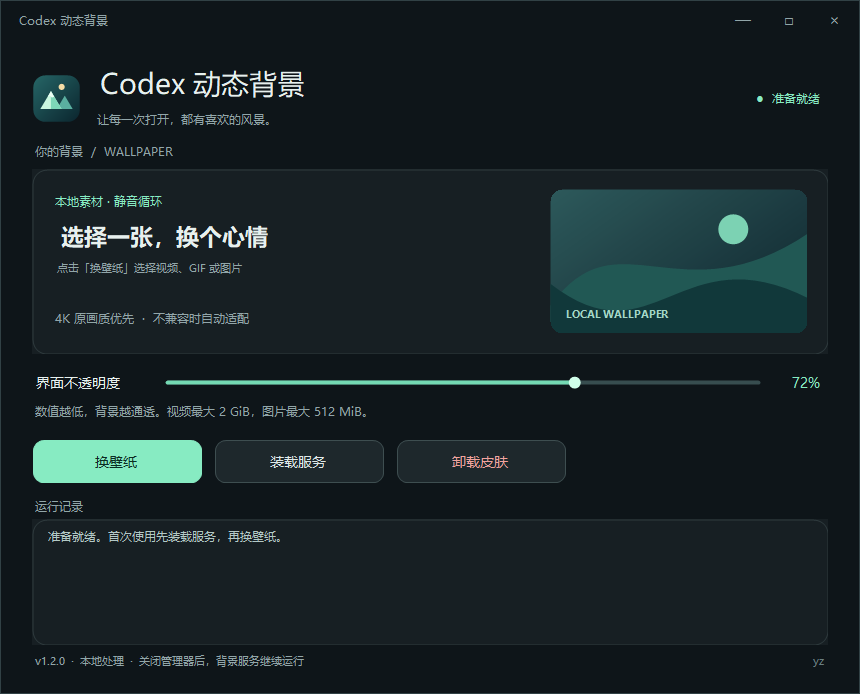
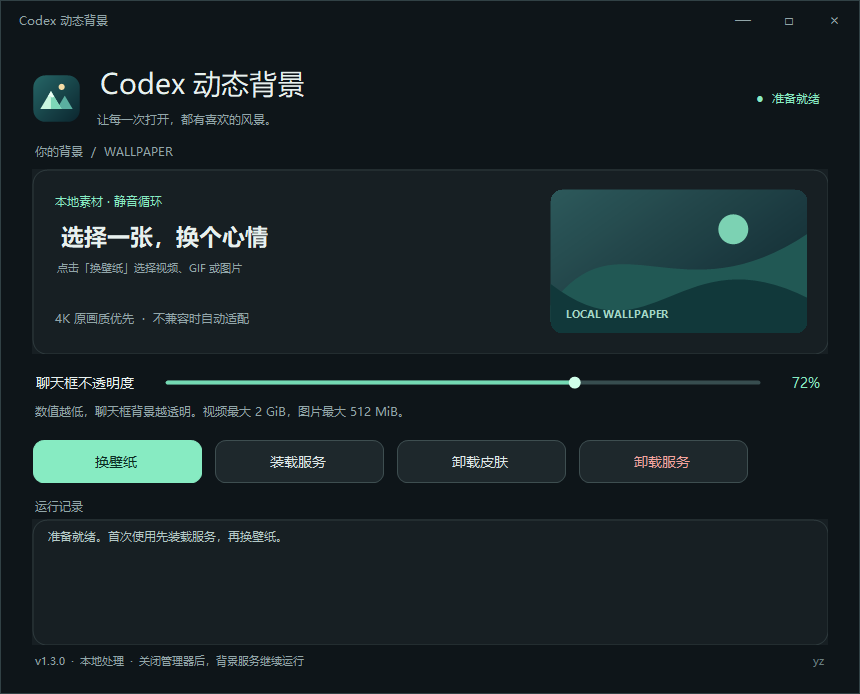
build(release): ship verified single EXE installer for v1.3.0

Changed region(s): [[0.0302, 0.5447, 0.4837, 0.6052], [0.7256, 0.6354, 0.8163, 0.696], [0.514, 0.6354, 0.5744, 0.696]]

diff --git a/source/Setup.cs b/source/Setup.cs
@@ -1,0 +1,103 @@
+using System;
+using System.IO;
+using System.IO.Compression;
+using System.Drawing;
+using System.Diagnostics;
+using System.Collections;
+using System.Collections.Generic;
+using System.Security.Cryptography;
+using System.Reflection;
+using System.Threading;
+using System.Text;
+using System.Web.Script.Serialization;
+using System.Windows.Forms;
+
+internal sealed class Setup : Form {
+    readonly Label status=new Label();readonly TextBox log=new TextBox();readonly ProgressBar progress=new ProgressBar();readonly ActionButton install=new ActionButton();bool busy,completed;string testReport;int resultCode;
+    Setup(){
+        DoubleBuffered=true;Text="安装 Codex 动态背景 · "+SetupPayload.Version;BackColor=Color.FromArgb(14,21,25);ForeColor=Color.FromArgb(231,240,238);Font=new Font("Microsoft YaHei UI",10);ClientSize=new Size(660,478);FormBorderStyle=FormBorderStyle.None;Padding=new Padding(1);MinimumSize=MaximumSize=Size;MaximizeBox=false;StartPosition=FormStartPosition.CenterScreen;
+        using(var bitmap=IconAssets.Create(64)){IntPtr handle=bitmap.GetHicon();try{Icon=(Icon)Icon.FromHandle(handle).Clone();}finally{DestroyIcon(handle);}}
+        var shell=new BufferedTable{Dock=DockStyle.Fill,ColumnCount=1,RowCount=2,Margin=Padding.Empty};shell.RowStyles.Add(new RowStyle(SizeType.Absolute,38));shell.RowStyles.Add(new RowStyle(SizeType.Percent,100));Controls.Add(shell);
+        var bar=new Panel{Dock=DockStyle.Fill,Margin=Padding.Empty};var close=new Button{Text="×",Dock=DockStyle.Right,Width=46,FlatStyle=FlatStyle.Flat,ForeColor=ForeColor,Font=new Font("Segoe UI",13)};close.FlatAppearance.BorderSize=0;close.Click+=delegate{Close();};bar.Controls.Add(close);
+        var title=new Label{Text="Codex 动态背景 · 安装程序",Dock=DockStyle.Fill,Padding=new Padding(14,0,0,0),TextAlign=ContentAlignment.MiddleLeft,ForeColor=Color.FromArgb(151,176,175)};title.MouseDown+=delegate(object sender,MouseEventArgs e){if(e.Button==MouseButtons.Left){ReleaseCapture();SendMessage(Handle,0xA1,(IntPtr)2,IntPtr.Zero);}};bar.Controls.Add(title);close.BringToFront();shell.Controls.Add(bar,0,0);
+        var layout=new BufferedTable{Dock=DockStyle.Fill,Padding=new Padding(28,18,28,28),ColumnCount=1,RowCount=6,Margin=Padding.Empty};shell.Controls.Add(layout,0,1);
+        foreach(int height in new[]{54,58,32})layout.RowStyles.Add(new RowStyle(SizeType.Absolute,height));layout.RowStyles.Add(new RowStyle(SizeType.Percent,100));layout.RowStyles.Add(new RowStyle(SizeType.Absolute,28));layout.RowStyles.Add(new RowStyle(SizeType.Absolute,52));
+        layout.Controls.Add(new Label{Text="安装 Codex 动态背景",Font=new Font(Font.FontFamily,21,FontStyle.Bold),Dock=DockStyle.Fill},0,0);
+        layout.Controls.Add(new Label{Text="自动检测旧版本并迁移更新。\r\n保留壁纸和登录资料，完成后自动打开管理器。",ForeColor=Color.FromArgb(151,176,175),Dock=DockStyle.Fill},0,1);
+        status.Text="准备安装 · v"+SetupPayload.Version;status.Dock=DockStyle.Fill;status.ForeColor=Color.FromArgb(135,235,194);layout.Controls.Add(status,0,2);
+        log.Multiline=true;log.ReadOnly=true;log.BorderStyle=BorderStyle.None;log.BackColor=Color.FromArgb(23,31,35);log.ForeColor=Color.FromArgb(176,204,197);log.Dock=DockStyle.Fill;log.ScrollBars=ScrollBars.Vertical;layout.Controls.Add(log,0,3);
+        progress.Dock=DockStyle.Fill;progress.Height=5;progress.Margin=new Padding(0,12,0,10);layout.Controls.Add(progress,0,4);
+        install.Text="安装 / 更新";install.Primary=true;install.Dock=DockStyle.Right;install.Click+=delegate{if(completed){Close();return;}if(!busy)BeginInstall();};layout.Controls.Add(install,0,5);
+        FormClosing+=delegate(object sender,FormClosingEventArgs e){if(busy){e.Cancel=true;MessageBox.Show(this,"安装正在进行，请等待完成。",Text);}};
+    }
+    [System.Runtime.InteropServices.DllImport("user32.dll")]static extern bool DestroyIcon(IntPtr icon);
+    [System.Runtime.InteropServices.DllImport("user32.dll")]static extern bool ReleaseCapture();
+    [System.Runtime.InteropServices.DllImport("user32.dll")]static extern IntPtr SendMessage(IntPtr window,int message,IntPtr w,IntPtr l);
+    protected override CreateParams CreateParams {get{var value=base.CreateParams;value.ExStyle|=0x02000000;return value;}}
+    void Update(string message,int percent){if(IsDisposed)return;BeginInvoke((MethodInvoker)delegate{status.Text=message;progress.Value=Math.Max(0,Math.Min(100,percent));});}
+    void Append(string text){if(IsDisposed)return;BeginInvoke((MethodInvoker)delegate{log.AppendText(text+Environment.NewLine);});}
+    static string Hash(Stream stream){using(var sha=SHA256.Create())return BitConverter.ToString(sha.ComputeHash(stream)).Replace("-","");}
+    static string Inside(string directory,string relative){
+        if(String.IsNullOrEmpty(relative)||Path.IsPathRooted(relative)||relative.IndexOf(':')>=0)throw new Exception("安装包路径无效。");
+        string full=Path.GetFullPath(Path.Combine(directory,relative.Replace('/',Path.DirectorySeparatorChar)));
+        if(!full.StartsWith(Path.GetFullPath(directory).TrimEnd(Path.DirectorySeparatorChar)+Path.DirectorySeparatorChar,StringComparison.OrdinalIgnoreCase))throw new Exception("安装包路径越界。");return full;
+    }
+    static void ExtractAndVerify(string stage,Action<string,int> report){
+        using(var payload=Assembly.GetExecutingAssembly().GetManifestResourceStream("Codex.Payload.zip")){
+            if(payload==null||!Hash(payload).Equals(SetupPayload.Sha256,StringComparison.OrdinalIgnoreCase))throw new Exception("安装包校验失败，请从项目发行页重新下载。");
+            payload.Position=0;using(var zip=new ZipArchive(payload,ZipArchiveMode.Read)){
+                if(zip.Entries.Count>1000)throw new Exception("安装包文件数量异常。");long total=0;int count=0;var seen=new HashSet<string>(StringComparer.OrdinalIgnoreCase);
+                foreach(var entry in zip.Entries){
+                    string file=Inside(stage,entry.FullName);if(!seen.Add(file))throw new Exception("安装包包含重复路径。");
+                    if(entry.FullName.EndsWith("/")){Directory.CreateDirectory(file);continue;}
+                    total+=entry.Length;if(entry.Length>200L*1024*1024||total>500L*1024*1024)throw new Exception("安装包大小异常。");
+                    Directory.CreateDirectory(Path.GetDirectoryName(file));using(var source=entry.Open())using(var target=File.Create(file))source.CopyTo(target);report("正在准备安装文件…",++count*25/zip.Entries.Count);
+                }
+            }
+        }
+        var manifest=new JavaScriptSerializer().Deserialize<Dictionary<string,object>>(File.ReadAllText(Path.Combine(stage,"manifest.json"),Encoding.UTF8));
+        if(Convert.ToString(manifest["version"])!=SetupPayload.Version)throw new Exception("安装包版本不一致。");
+        foreach(var item in (IEnumerable)manifest["files"]){var entry=(Dictionary<string,object>)item;string file=Inside(stage,Convert.ToString(entry["path"]));if(new FileInfo(file).Length!=Convert.ToInt64(entry["bytes"]))throw new Exception("安装文件长度校验失败。");using(var stream=File.OpenRead(file))if(!Hash(stream).Equals(Convert.ToString(entry["sha256"]),StringComparison.OrdinalIgnoreCase))throw new Exception("安装文件校验失败。");}
+    }
+    void RunStep(string stage,string action){
+        string ps=Path.Combine(Environment.GetFolderPath(Environment.SpecialFolder.System),@"WindowsPowerShell\v1.0\powershell.exe");
+        string args="-NoLogo -NoProfile -NonInteractive -WindowStyle Hidden -ExecutionPolicy Bypass -File \""+Path.Combine(stage,"control.ps1")+"\" -Action "+action;
+        var info=new ProcessStartInfo(ps,args){UseShellExecute=false,CreateNoWindow=true,WorkingDirectory=stage,RedirectStandardOutput=true,RedirectStandardError=true,StandardOutputEncoding=Encoding.UTF8,StandardErrorEncoding=Encoding.UTF8};
+        using(var process=Process.Start(info)){
+            var errors=new StringBuilder();process.OutputDataReceived+=delegate(object sender,DataReceivedEventArgs e){if(e.Data!=null)Append(e.Data);};process.ErrorDataReceived+=delegate(object sender,DataReceivedEventArgs e){if(e.Data!=null)lock(errors)errors.AppendLine(e.Data);};process.BeginOutputReadLine();process.BeginErrorReadLine();if(!process.WaitForExit(300000)){process.Kill();throw new Exception("安装步骤超时，请重试。");}process.WaitForExit();if(process.ExitCode!=0)lock(errors)throw new Exception(errors.Length>0?errors.ToString().Trim():"安装操作未完成，请查看日志。");
+        }
+    }
+    void BeginInstall(){
+        busy=true;install.Enabled=false;ThreadPool.QueueUserWorkItem(delegate{
+            string stage=Path.Combine(Path.GetTempPath(),"CodexBackgroundSetup-"+Guid.NewGuid().ToString("N"));bool preparing=false,success=false;string failure=null;
+            try{
+                Directory.CreateDirectory(stage);ExtractAndVerify(stage,Update);Update("正在检查 Codex 和运行环境…",30);RunStep(stage,"Check");
+                preparing=true;Update("正在检测并迁移旧版本…",45);RunStep(stage,"PrepareUpgrade");Update("正在安装并启用背景服务…",65);RunStep(stage,"Install");
+                string app=Path.Combine(Environment.GetFolderPath(Environment.SpecialFolder.LocalApplicationData),@"Programs\CodexLiveBackground\CodexLiveBackground.exe");
+                if(testReport==null)Process.Start(new ProcessStartInfo(app){UseShellExecute=true,WorkingDirectory=Path.GetDirectoryName(app)});success=true;Update("安装完成，背景服务已启用。",100);
+            }catch(Exception error){
+                if(preparing)try{Append("正在恢复旧安装…");RunStep(stage,"RollbackUpgrade");}catch(Exception rollback){Append("恢复信息："+rollback.Message);}
+                failure=error.Message;Append(error.Message);Update("安装未完成，可重试；个人资料保留。",0);
+            }finally{
+                // The exact temporary directory was created above; never use user-supplied cleanup paths.
+                string prefix=Path.GetFullPath(Path.GetTempPath()).TrimEnd(Path.DirectorySeparatorChar)+Path.DirectorySeparatorChar+"CodexBackgroundSetup-";
+                if(stage.StartsWith(prefix,StringComparison.OrdinalIgnoreCase)&&Directory.Exists(stage))try{Directory.Delete(stage,true);}catch{}
+            }
+            BeginInvoke((MethodInvoker)delegate{busy=false;completed=success;install.Text=success?"完成":"重试安装";install.Enabled=true;if(testReport!=null){resultCode=success?0:1;File.WriteAllText(testReport,new JavaScriptSerializer().Serialize(new{pass=success,error=failure,version=SetupPayload.Version,log=log.Text}));Close();}});
+        });
+    }
+    [STAThread]static int Main(string[] args){Application.EnableVisualStyles();Application.SetCompatibleTextRenderingDefault(false);
+        bool test=args.Length==2&&args[0].StartsWith("--");bool owns=false;using(var mutex=new Mutex(false,"Local\\CodexLiveBackground.Setup."+System.Security.Principal.WindowsIdentity.GetCurrent().User.Value)){
+        try{try{owns=mutex.WaitOne(0);}catch(AbandonedMutexException){owns=true;}if(!owns){if(!test)MessageBox.Show("安装程序已在运行，请返回原窗口。","Codex 动态背景");return 1;}
+        if(args.Length==2&&args[0]=="--verify-only"){
+            string stage=Path.Combine(Path.GetTempPath(),"CodexBackgroundSetup-"+Guid.NewGuid().ToString("N"));Directory.CreateDirectory(stage);
+            try{ExtractAndVerify(stage,delegate{});File.WriteAllText(args[1],"{\"pass\":true,\"payloadVerified\":true}");return 0;}finally{Directory.Delete(stage,true);}
+        }
+        using(var form=new Setup()){
+            if(args.Length==2&&args[0]=="--smoke-test"){form.Show();Application.DoEvents();using(var bitmap=new Bitmap(form.Width,form.Height)){form.DrawToBitmap(bitmap,new Rectangle(0,0,form.Width,form.Height));bitmap.Save(args[1]);}return 0;}
+            if(args.Length==2&&args[0]=="--install-test"){form.testReport=args[1];form.Shown+=delegate{form.BeginInstall();};}
+            Application.Run(form);return form.resultCode;
+        }}catch(Exception error){if(test)File.WriteAllText(args[1],new JavaScriptSerializer().Serialize(new{pass=false,error=error.ToString()}));else MessageBox.Show(error.Message,"Codex 动态背景");return 1;}
+        finally{if(owns)mutex.ReleaseMutex();}
+    }}
+}

diff --git a/docs/plans/2026-10-24-service-uninstaller.md b/docs/plans/2026-10-24-service-uninstaller.md
@@ -1,0 +1,21 @@
+# Complete Service Uninstaller Implementation Plan
+
+**Goal:** Ship v1.3.0 with complete service removal, reliable startup recovery, automatic legacy migration, animated previews and a single EXE installer.
+
+**Architecture:** Reuse native Windows Forms and verified service/process identities. Pause live styling, unregister only this application's startup entries and package hook, wait for its guard/monitors, stop the verified injector, then remove the owned startup directory and session record. Preserve wallpaper, profiles, video tools and the manager.
+
+**Tech Stack:** Windows PowerShell 5.1, .NET Framework WinForms, PackageDebugSettings COM API.
+
+---
+
+1. Update source/skin-removal.ps1 so skin removal only pauses and removes current styling; test that startup entries, files and injector state remain.
+2. Add source/service-removal.ps1 with ownership checks, cooperative service shutdown, stale-hook repair, exact process verification, bounded paths and junction rejection before recursive cleanup. Failed cleanup must report partial completion and be retryable.
+3. Add tests/service-removal.ps1 using isolated directories and mocked Windows integration. Cover normal/repeated removals, foreign hooks, missing files, blocked cleanup, running monitor and reparse-point boundaries.
+4. Add a fourth manager action with an explicit description and confirmation. Replace the native TrackBar with a buffered control to eliminate redraw trails; verify pointer, keyboard and pixel restoration. Buffer all layout containers and repaint resized surfaces. Bound status and worker waits, allow immediate window dismissal during work, and test close/timeout paths. Correct the opacity wording.
+5. Generate short local GIF previews using the pinned FFmpeg runtime, animate them in the manager, cache and restore them. Apply fixed dark appearance to live wallpaper and Codex preferences.
+6. Add a login Startup-folder fallback and ensure the guard runs on Codex package activation. Keep service helpers hidden and independent of the manager window.
+7. Detect canonical and legacy installs, close only old managers, stop only verified background components, checkpoint and archive old program files, preserve user data, and support rollback.
+8. Build an offline single EXE installer using .NET and an embedded, SHA-256-verified package. The customer never needs to unzip it. Validate extraction boundaries and all file hashes before migration.
+9. Update documentation and build v1.3.0, verify package/installer and source correspondence, upgrade the local manager and publish main/develop, feature branch, change tags and release.
+
+The existing service stays running on this computer during development. Only isolated test installations are uninstalled automatically.

diff --git a/CONTRIBUTING.md b/CONTRIBUTING.md
@@ -4,6 +4,10 @@
 
 编译后的管理器支持 `--ui-test <report.json>` 验证窗口按钮、缩放和不透明度反馈；`--smoke-test <image.png> [width height]` 生成无个人素材的界面截图。这些模式不会装载或卸载真实背景服务。
 
+v1.3.0 新增 `tests/service-removal.ps1`、`tests/upgrade.ps1`、`tests/dark-appearance.ps1`，均在独立测试目录中执行，Windows 注册与进程操作使用测试替身。`node tests/media-preview.mjs` 使用 `DREAM_TEST_FFMPEG` 生成测试图案，验证循环预览、缓存修复、帧数限制与源文件保留。
+
+管理器 `--ui-test` 还验证 80 次尺寸变化与 250 次滑杆拖动；`--lifecycle-test <report.json>` 验证操作中关闭、状态取消和超时；`--preview-test <gif> <report.json>` 验证实际动画帧变化。安装器 `--verify-only <report.json>` 只验证内置包，`--smoke-test <image.png>` 生成截图。**`--install-test <report.json>` 会实际升级本机服务和程序**，仅在明确允许升级的测试电脑上运行，结果写入报告。
+
 ## 分支
 
 - `main` 保存稳定版本。
@@ -35,7 +39,7 @@ change/0002-offline-runtime-docs
 ## 修改约束
 
 - 不强制关闭、重启或结束 Codex 进程来完成背景操作。
-- 保留「装载服务」和「换壁纸」两个按钮，产品名为「Codex 动态背景」。`yz` 只在管理器右下角以小字显示。
+- 保留「装载服务」「换壁纸」「卸载皮肤」「卸载服务」四个入口，产品名为「Codex 动态背景」。`yz` 只在管理器右下角以小字显示。
 - 端点仅限同用户官方 Codex 的本机回环地址；不能通过放宽身份验证来绕过连接问题。
 - 素材必须经过结构和尺寸检查。视频还必须在实际 Codex renderer 中成功解码，不能只检查扩展名或 `canPlayType`。
 - 编码不支持与播放策略、窗口隐藏、播放中断分开处理。只有确认编码不兼容时才转换，转换不截短或改写原文件。

diff --git a/CHANGELOG.md b/CHANGELOG.md
@@ -2,6 +2,17 @@
 
 原始项目：[xxloocee/Codex-Dream-Skin-Manager](https://github.com/xxloocee/Codex-Dream-Skin-Manager)。本仓库仅记录基于原项目的 Bug 修复、兼容处理和源码精简；原引擎来自 [Fei-Away/Codex-Dream-Skin](https://github.com/Fei-Away/Codex-Dream-Skin)。
 
+## v1.3.0 — 自动升级、动态预览与启动恢复
+
+- 新增单个 Setup.exe 安装器：校验内置包、检测标准目录中的旧版、迁移旧组件、保留备份并支持失败后的文件恢复，无需手动解压。
+- 登录计划任务、Run 和启动文件夹共用同一后台守护；Codex 启动入口会补启守护，无需每次打开管理器。
+- 分开「卸载皮肤」与「卸载服务」：前者保留服务，后者清除启动挂接、后台进程与服务文件；均保留聊天、素材与登录资料。
+- 修复滑杆拖影及窗口拉伸后的预览、面板残影；窗口布局采用缓冲绘制与完整重绘。
+- 状态检查限时 30 秒；关闭管理器立即收起窗口，正在写入的操作后台继续，完成后退出。再次打开可回到同一窗口，不创建重复管理器。
+- 选中图片显示实际预览；视频/GIF 生成最长 6 秒的缓存循环预览，背景本身保持完整时长。
+- 将提示改为「数值越低，聊天框背景越透明」；换壁纸同步启用 Codex 深色外观并保存偏好。
+- 延续原生 4K 优先、逐级兼容转换、2 GiB 视频输入、完整时长及严格解码验证。
+
 ## v1.2.0 — 4K 兼容与管理器改版
 
 - 原画质播放优先；需要兼容转换时按源尺寸（长边最高 4096）、2560、1920 逐级验证，不再直接降至 1080p。
